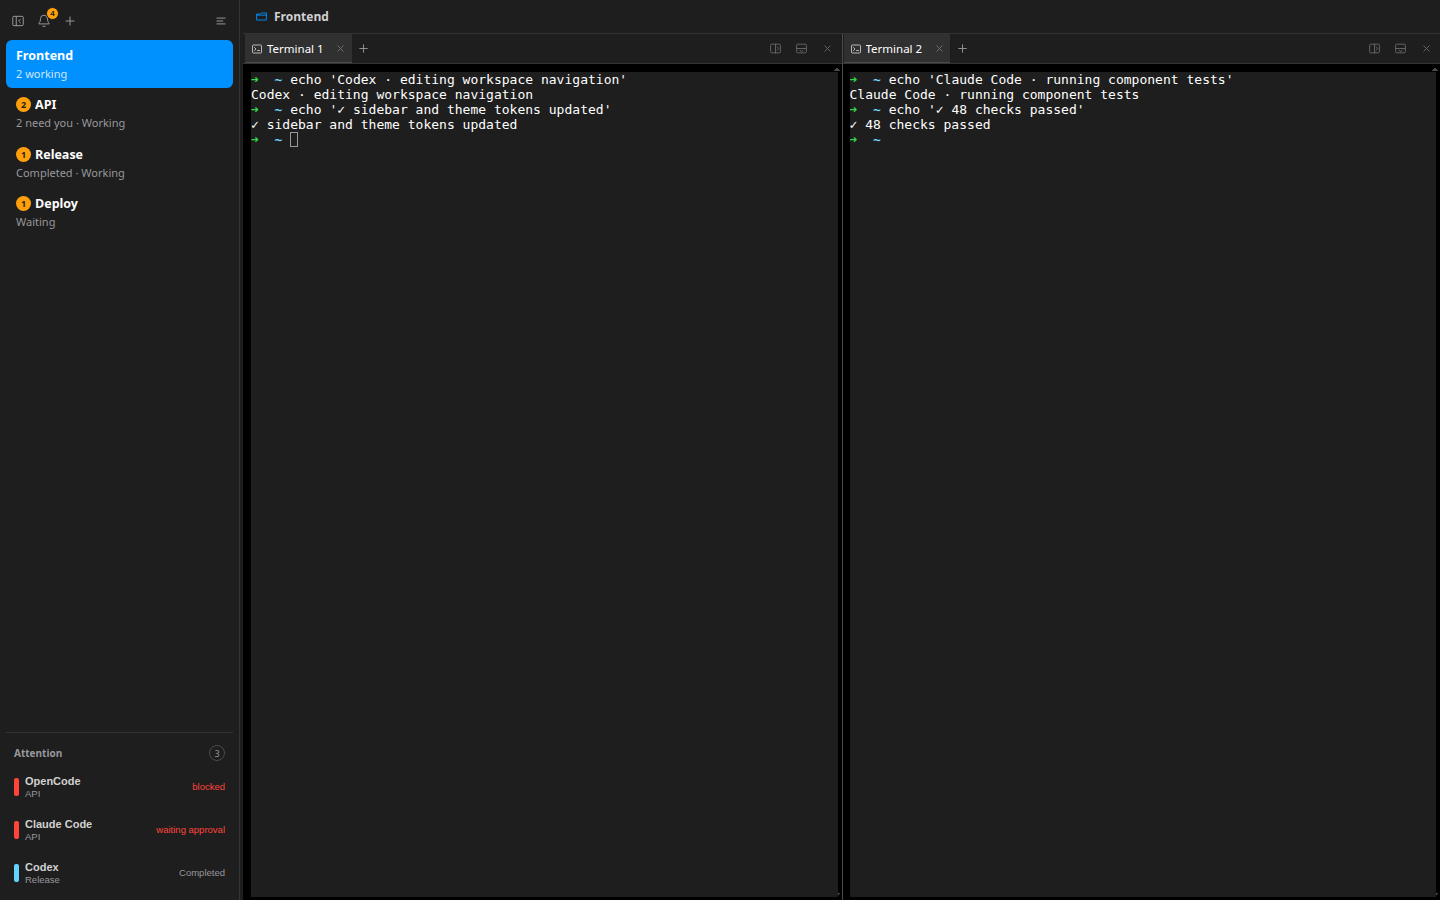
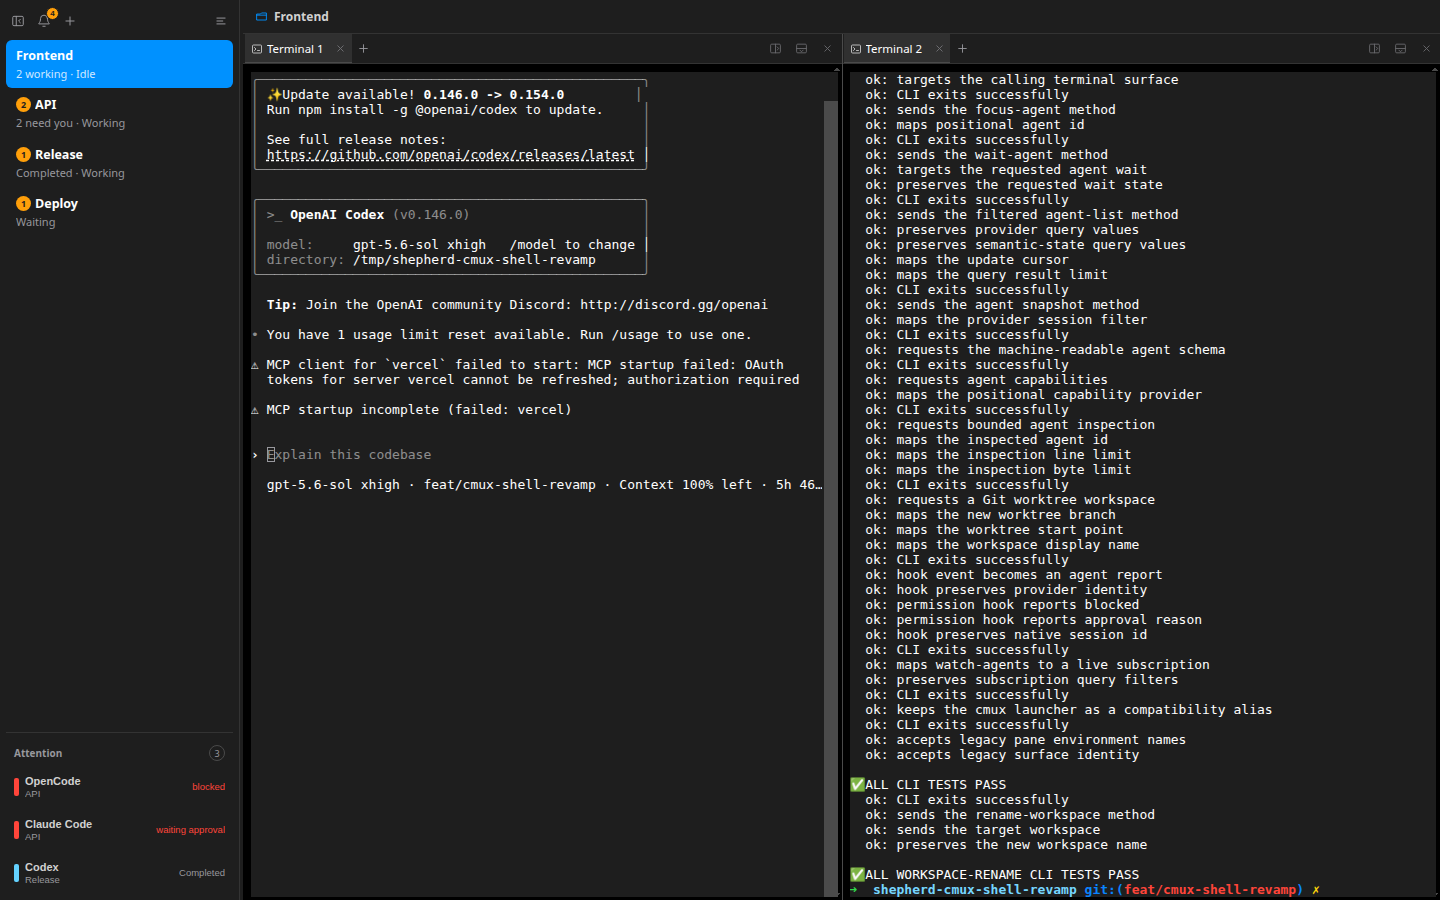
docs: show real agent CLI workflow

Changed region(s): [[0.1875, 0.0622, 0.9062, 0.9956], [0.1562, 0.0622, 0.4375, 0.1867]]

diff --git a/README.md b/README.md
@@ -11,7 +11,11 @@ It is a terminal multiplexer at its foundation. Agent awareness is what makes it
 different: Shepherd helps you run several coding agents without turning the app
 into an AI dashboard or losing track of what needs you.
 
-![Shepherd coordinating working, blocked, approval-waiting, and completed coding agents across split terminals](docs/images/shepherd-agent-workbench.png)
+![Shepherd running the real Codex CLI beside a passing test suite, with multiple workspaces and agent attention states](docs/images/shepherd-agent-workbench.png)
+
+_A real Shepherd session: the interactive Codex CLI runs in one PTY, the project
+test suite runs in another, and the workspace rail summarizes working, idle,
+blocked, approval-waiting, completed, and external-wait states._
 
 > [!IMPORTANT]
 > Shepherd is in early development. The core terminal, workspace, agent,
@@ -110,6 +114,9 @@ welcome`.
 
 ![Shepherd first launch showing its terminal-native welcome, shortcuts, and CLI help](docs/images/shepherd-first-launch.png)
 
+The welcome is printed into the first real shell, so the launch screen remains a
+usable terminal rather than a separate onboarding page.
+
 ### Context when you ask for it
 
 Select the workspace name in the titlebar, choose **Inspect workspace** from a
@@ -118,7 +125,7 @@ palette. The inspector shows the current repository and branch, pull request,
 owned ports, agent activity, reported usage, and pane/surface counts. Port and
 agent rows are actions: they open the secure preview or focus the real terminal.
 
-![Shepherd workspace inspector showing testing, approval-waiting, and blocked agents with usage context](docs/images/shepherd-agent-inspector.png)
+![Shepherd Agents inspector showing Codex testing, Claude Code waiting for approval, and OpenCode blocked](docs/images/shepherd-agent-inspector.png)
 
 ### Attention without terminal checking
 
@@ -126,14 +133,15 @@ Blocked agents and unseen completions enter the compact Attention section.
 Socket and OSC notifications also feed a bounded inbox. Both routes can return
 you to the workspace and exact terminal that produced the event.
 
-![Shepherd notification center showing waiting deployment, completed package, blocked generation, and approval scenarios](docs/images/shepherd-agent-attention.png)
+![Shepherd notification center showing an external wait, completed package, blocked generation, and approval request](docs/images/shepherd-agent-attention.png)
 
-### Localhost preview
+### Localhost browser preview
 
-Open a detected loopback server beside its terminal. Preview navigation remains
-restricted to localhost and uses a dedicated Electron session boundary.
+Open a detected loopback server beside its owning terminal. This is browser
+support for local development previews, not unrestricted web browsing: navigation
+remains restricted to localhost and uses a dedicated Electron session boundary.
 
-![A localhost app previewed beside its Shepherd terminal](docs/images/localhost-preview.png)
+![Shepherd's localhost browser preview beside the terminal process that owns the server](docs/images/localhost-preview.png)
 
 ## Install
 
